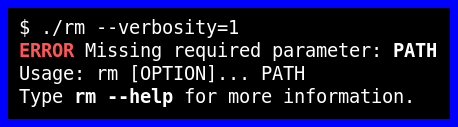
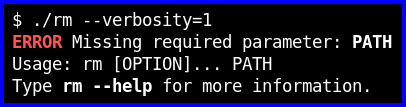
update documentation

Changed region(s): [[0.0, 0.028, 1.0, 0.9813]]

diff --git a/README.md b/README.md
@@ -38,7 +38,7 @@ abstract class DeleteCommand {
 See [here](https://github.com/h908714124/jbock-docgen/blob/master/src/main/java/com/example/hello/DeleteCommand_Parser.java)
 for the code this generates. And here's a screenshot:
 
-<img src="images/screenshot.png" alt="screenshot" height="127px">
+<img src="images/screenshot.png" alt="screenshot">
 
 ### Sample projects
 
